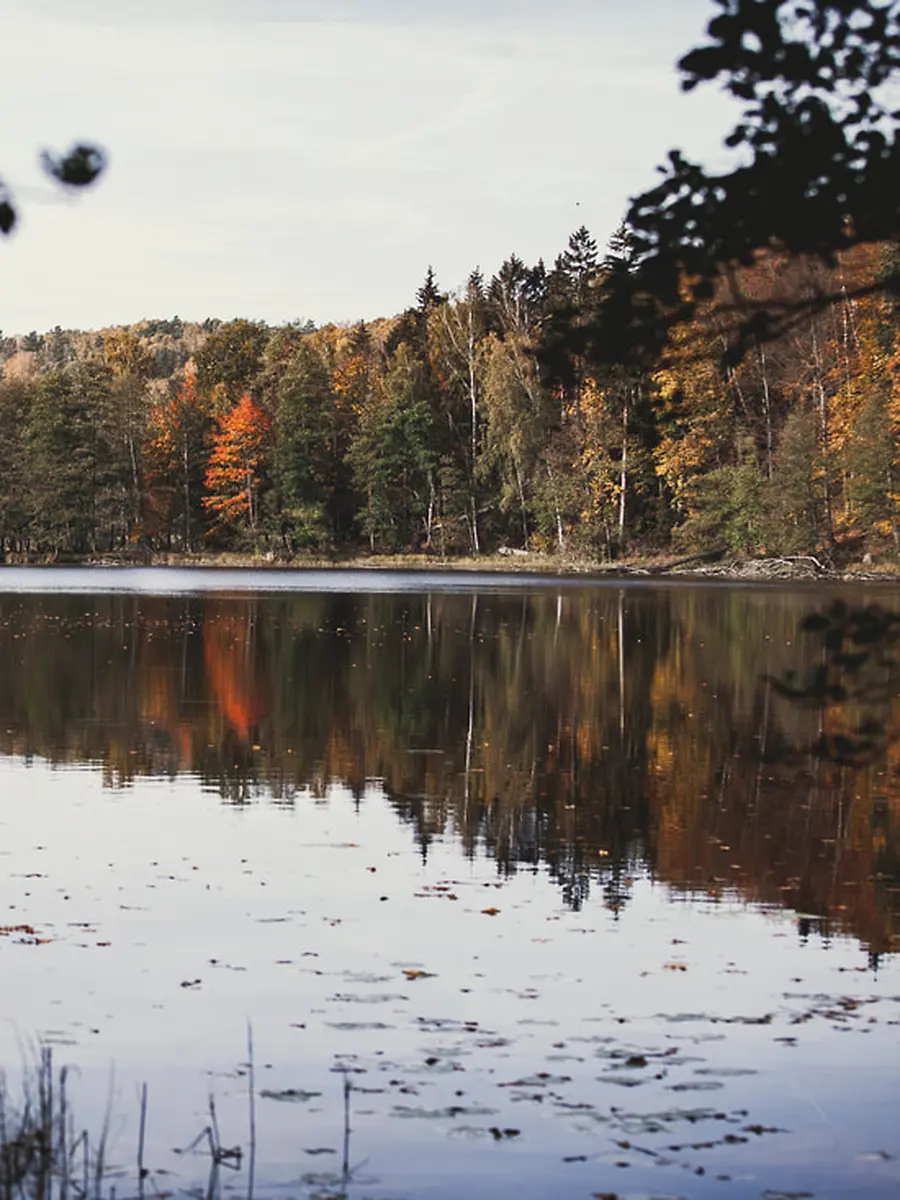
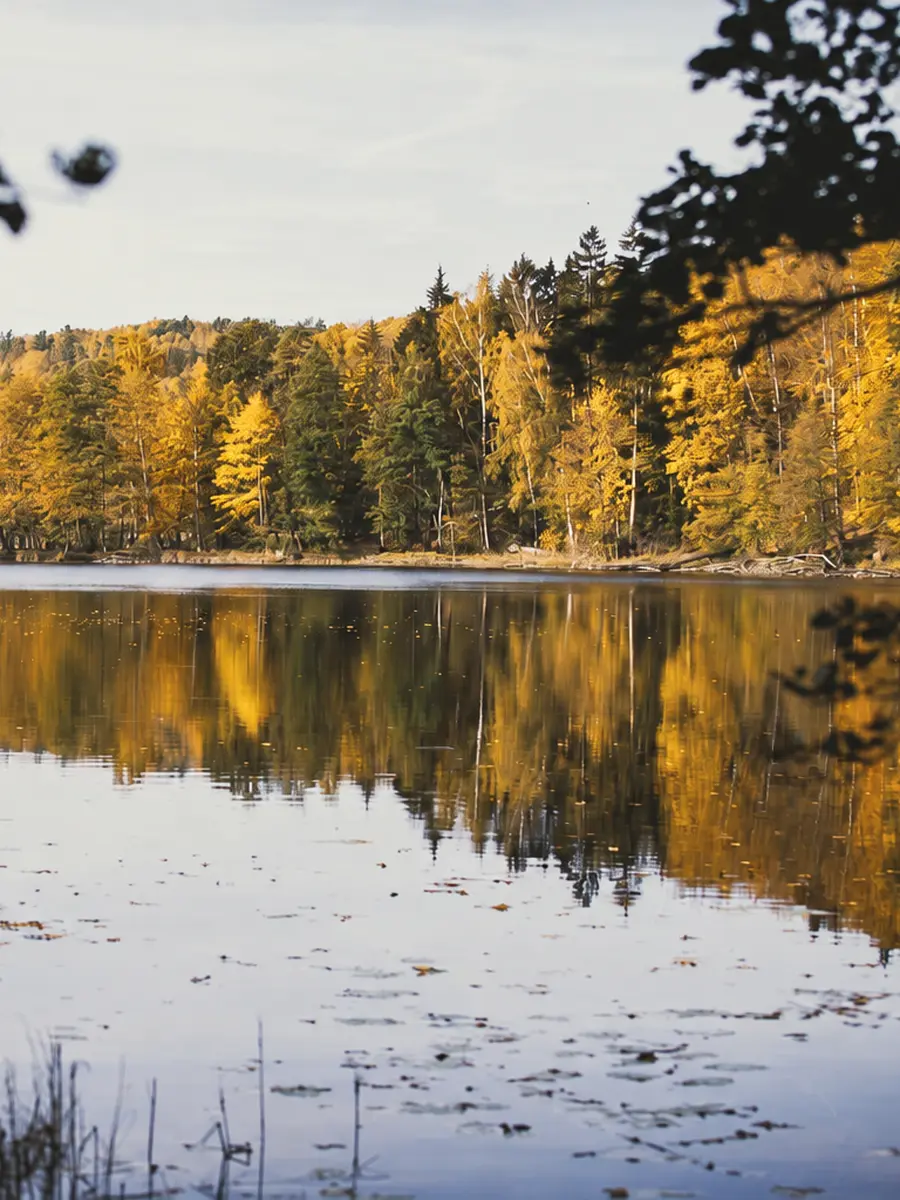
Publish golden autumn lake grade

diff --git a/index.html b/index.html
@@ -6,15 +6,15 @@
   <meta name="theme-color" content="#77745f">
   <meta name="description" content="Połczyn-Zdrój — Dolina Pięciu Jezior.">
   <title>Połczyn.ski</title>
-  <link rel="preload" href="assets/dolina-five-lakes-desktop.webp?v=2" as="image" type="image/webp" media="(min-width: 561px)">
-  <link rel="preload" href="assets/dolina-five-lakes-mobile.webp?v=2" as="image" type="image/webp" media="(max-width: 560px)">
+  <link rel="preload" href="assets/dolina-five-lakes-desktop.webp?v=3" as="image" type="image/webp" media="(min-width: 561px)">
+  <link rel="preload" href="assets/dolina-five-lakes-mobile.webp?v=3" as="image" type="image/webp" media="(max-width: 560px)">
   <link rel="stylesheet" href="styles.css">
 </head>
 <body>
   <main>
     <picture>
-      <source media="(max-width: 560px)" srcset="assets/dolina-five-lakes-mobile.webp?v=2">
-      <img src="assets/dolina-five-lakes-desktop.webp?v=2" alt="Jesienne Jezioro Krzywe w Dolinie Pięciu Jezior" fetchpriority="high" decoding="async">
+      <source media="(max-width: 560px)" srcset="assets/dolina-five-lakes-mobile.webp?v=3">
+      <img src="assets/dolina-five-lakes-desktop.webp?v=3" alt="Jesienne Jezioro Krzywe w Dolinie Pięciu Jezior" fetchpriority="high" decoding="async">
     </picture>
     <p class="credit">Fot. Ana McGurran · <a href="https://www.dzikiezdroje.pl/rezerwatpieciujezior.html" rel="noopener noreferrer">Dzikie Zdroje</a></p>
   </main>

diff --git a/PHOTO-CREDITS.md b/PHOTO-CREDITS.md
@@ -4,7 +4,8 @@
 - Autor: Ana McGurran
 - Źródło: https://www.dzikiezdroje.pl/rezerwatpieciujezior.html
 - Plik źródłowy: https://www.dzikiezdroje.pl/uploads/1/3/9/2/139245630/img-7133-2_orig.jpg
-- Zmiany: osobne kadry, powiększenie, kompresja WebP i delikatny grading kolorystyczny.
+- Zmiany: osobne kadry, powiększenie, kompresja WebP oraz selektywna korekcja
+  kolorów istniejącego listowia z użyciem narzędzia OpenAI do edycji obrazu.
 
 Strona źródłowa identyfikuje miejsce i autora, ale nie publikuje otwartej
 licencji. Przed publicznym uruchomieniem strony należy potwierdzić prawo dalszej
